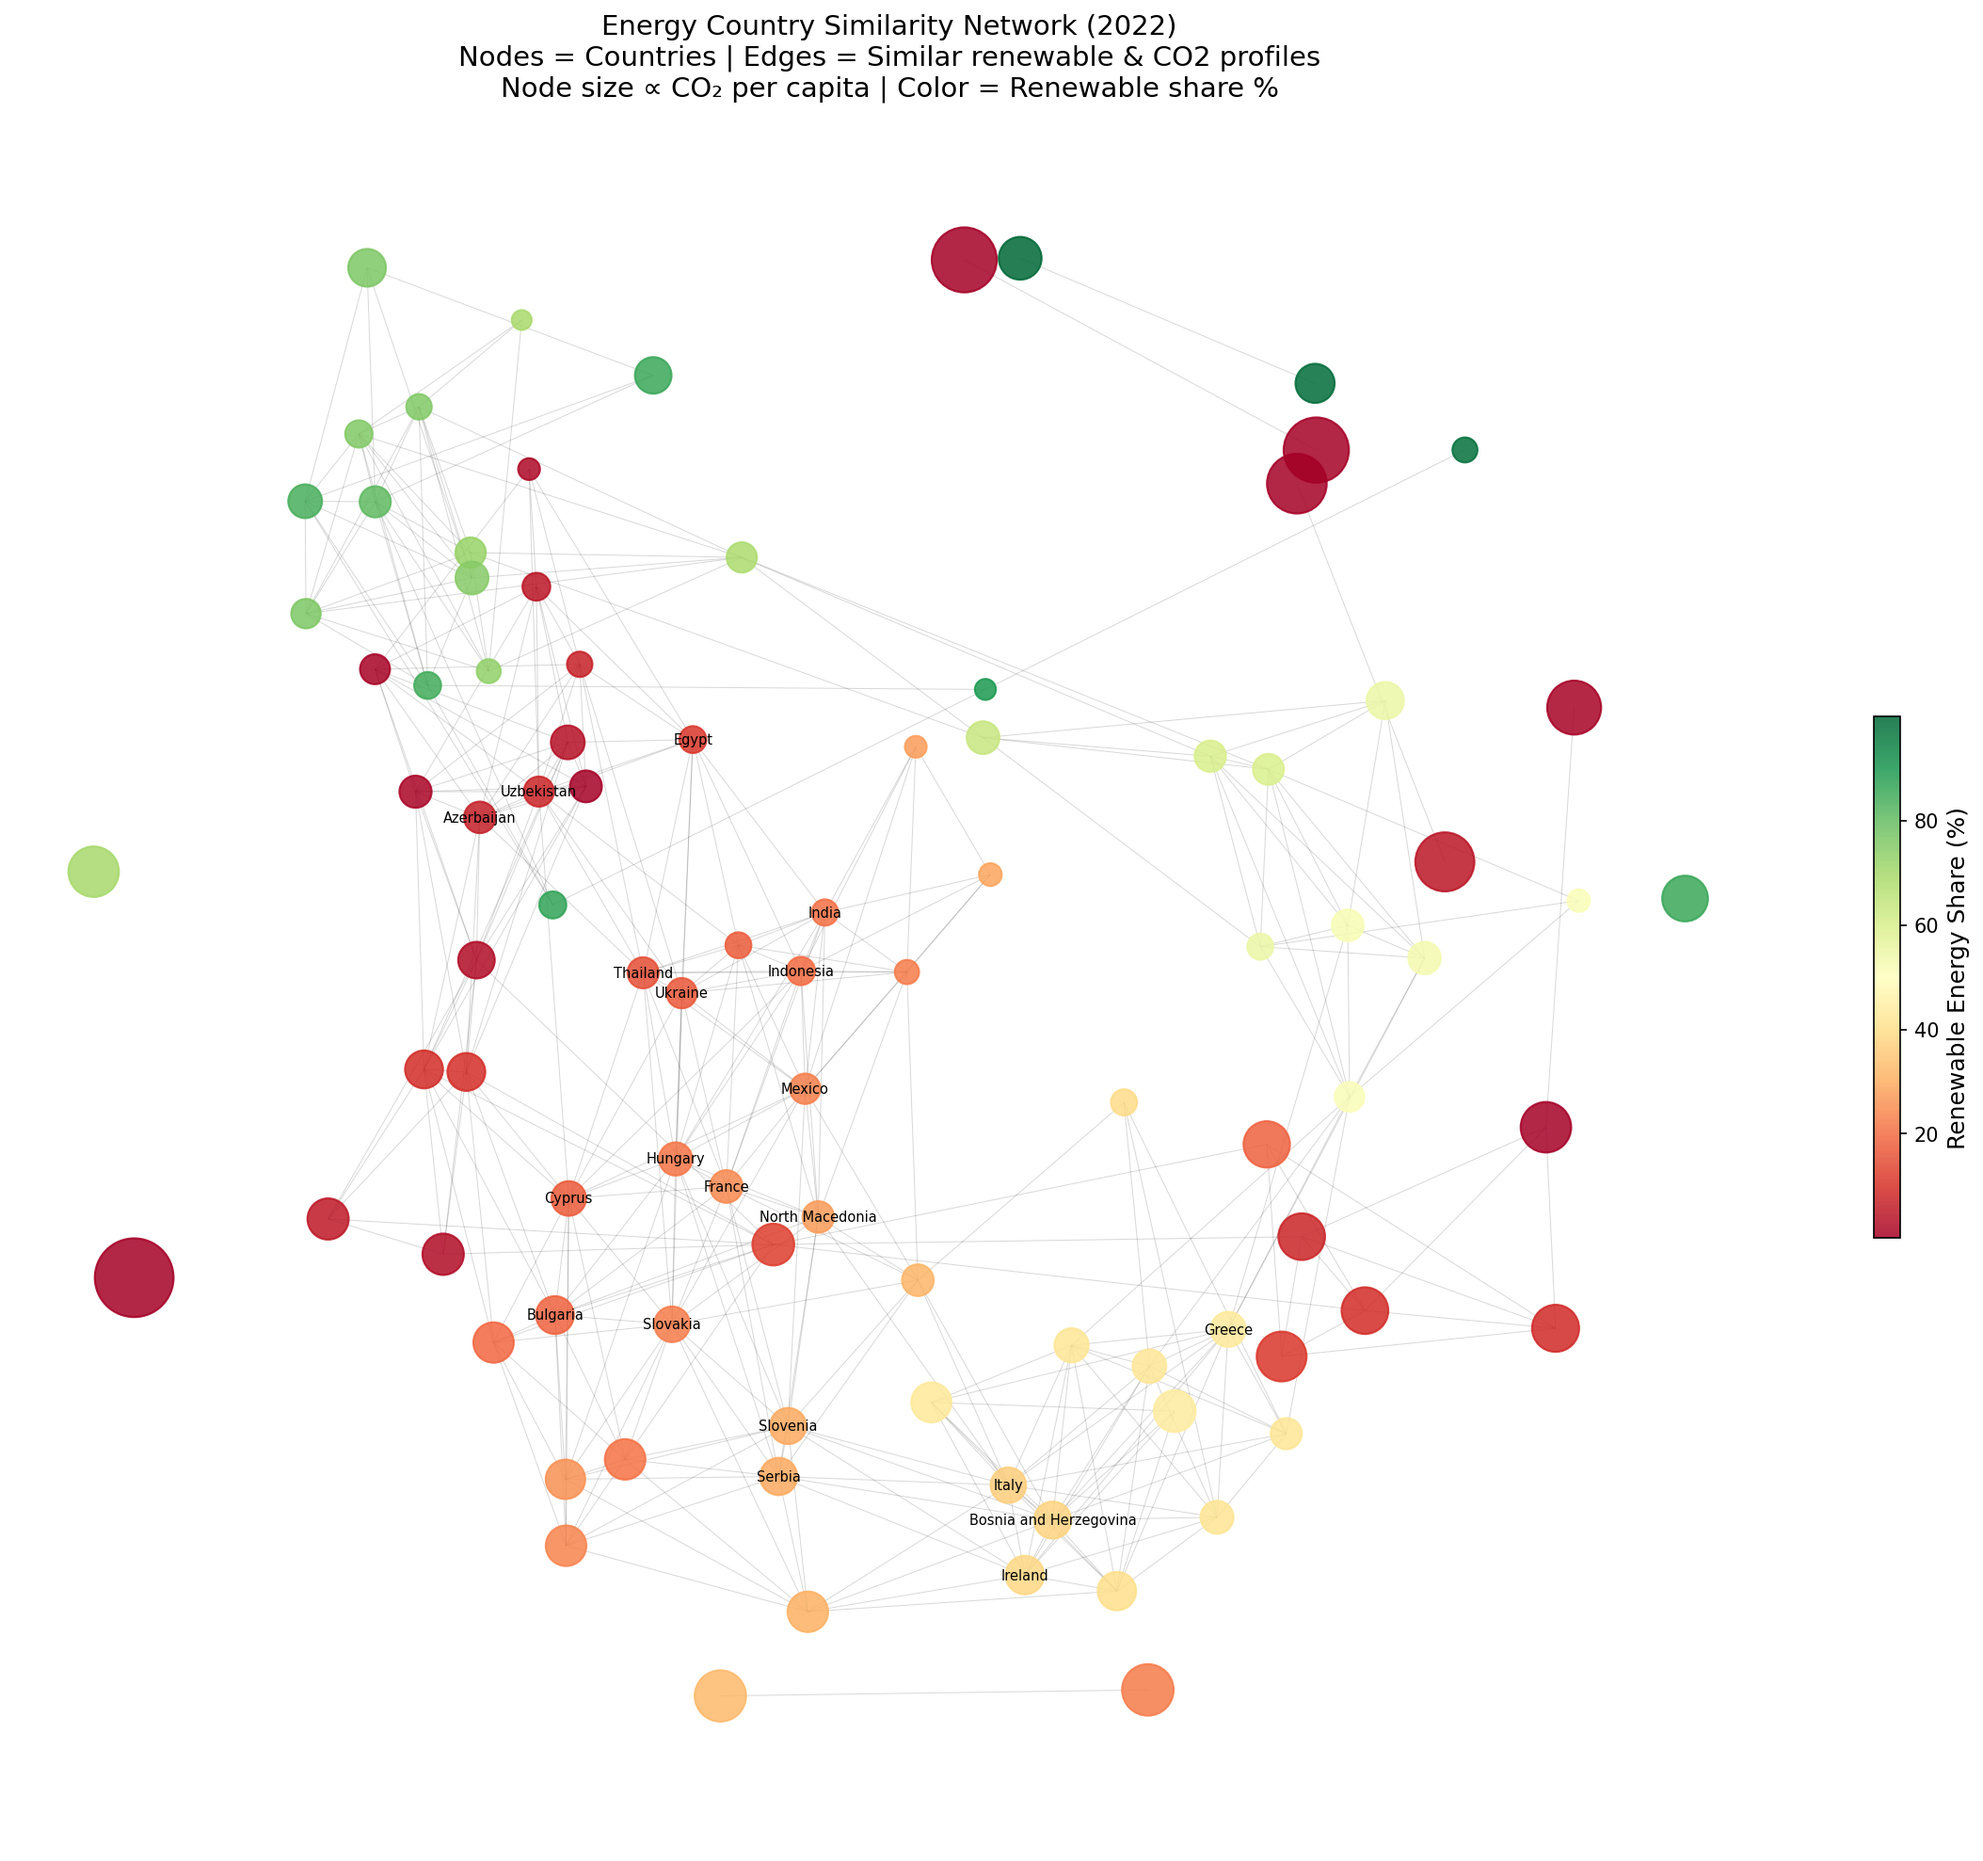
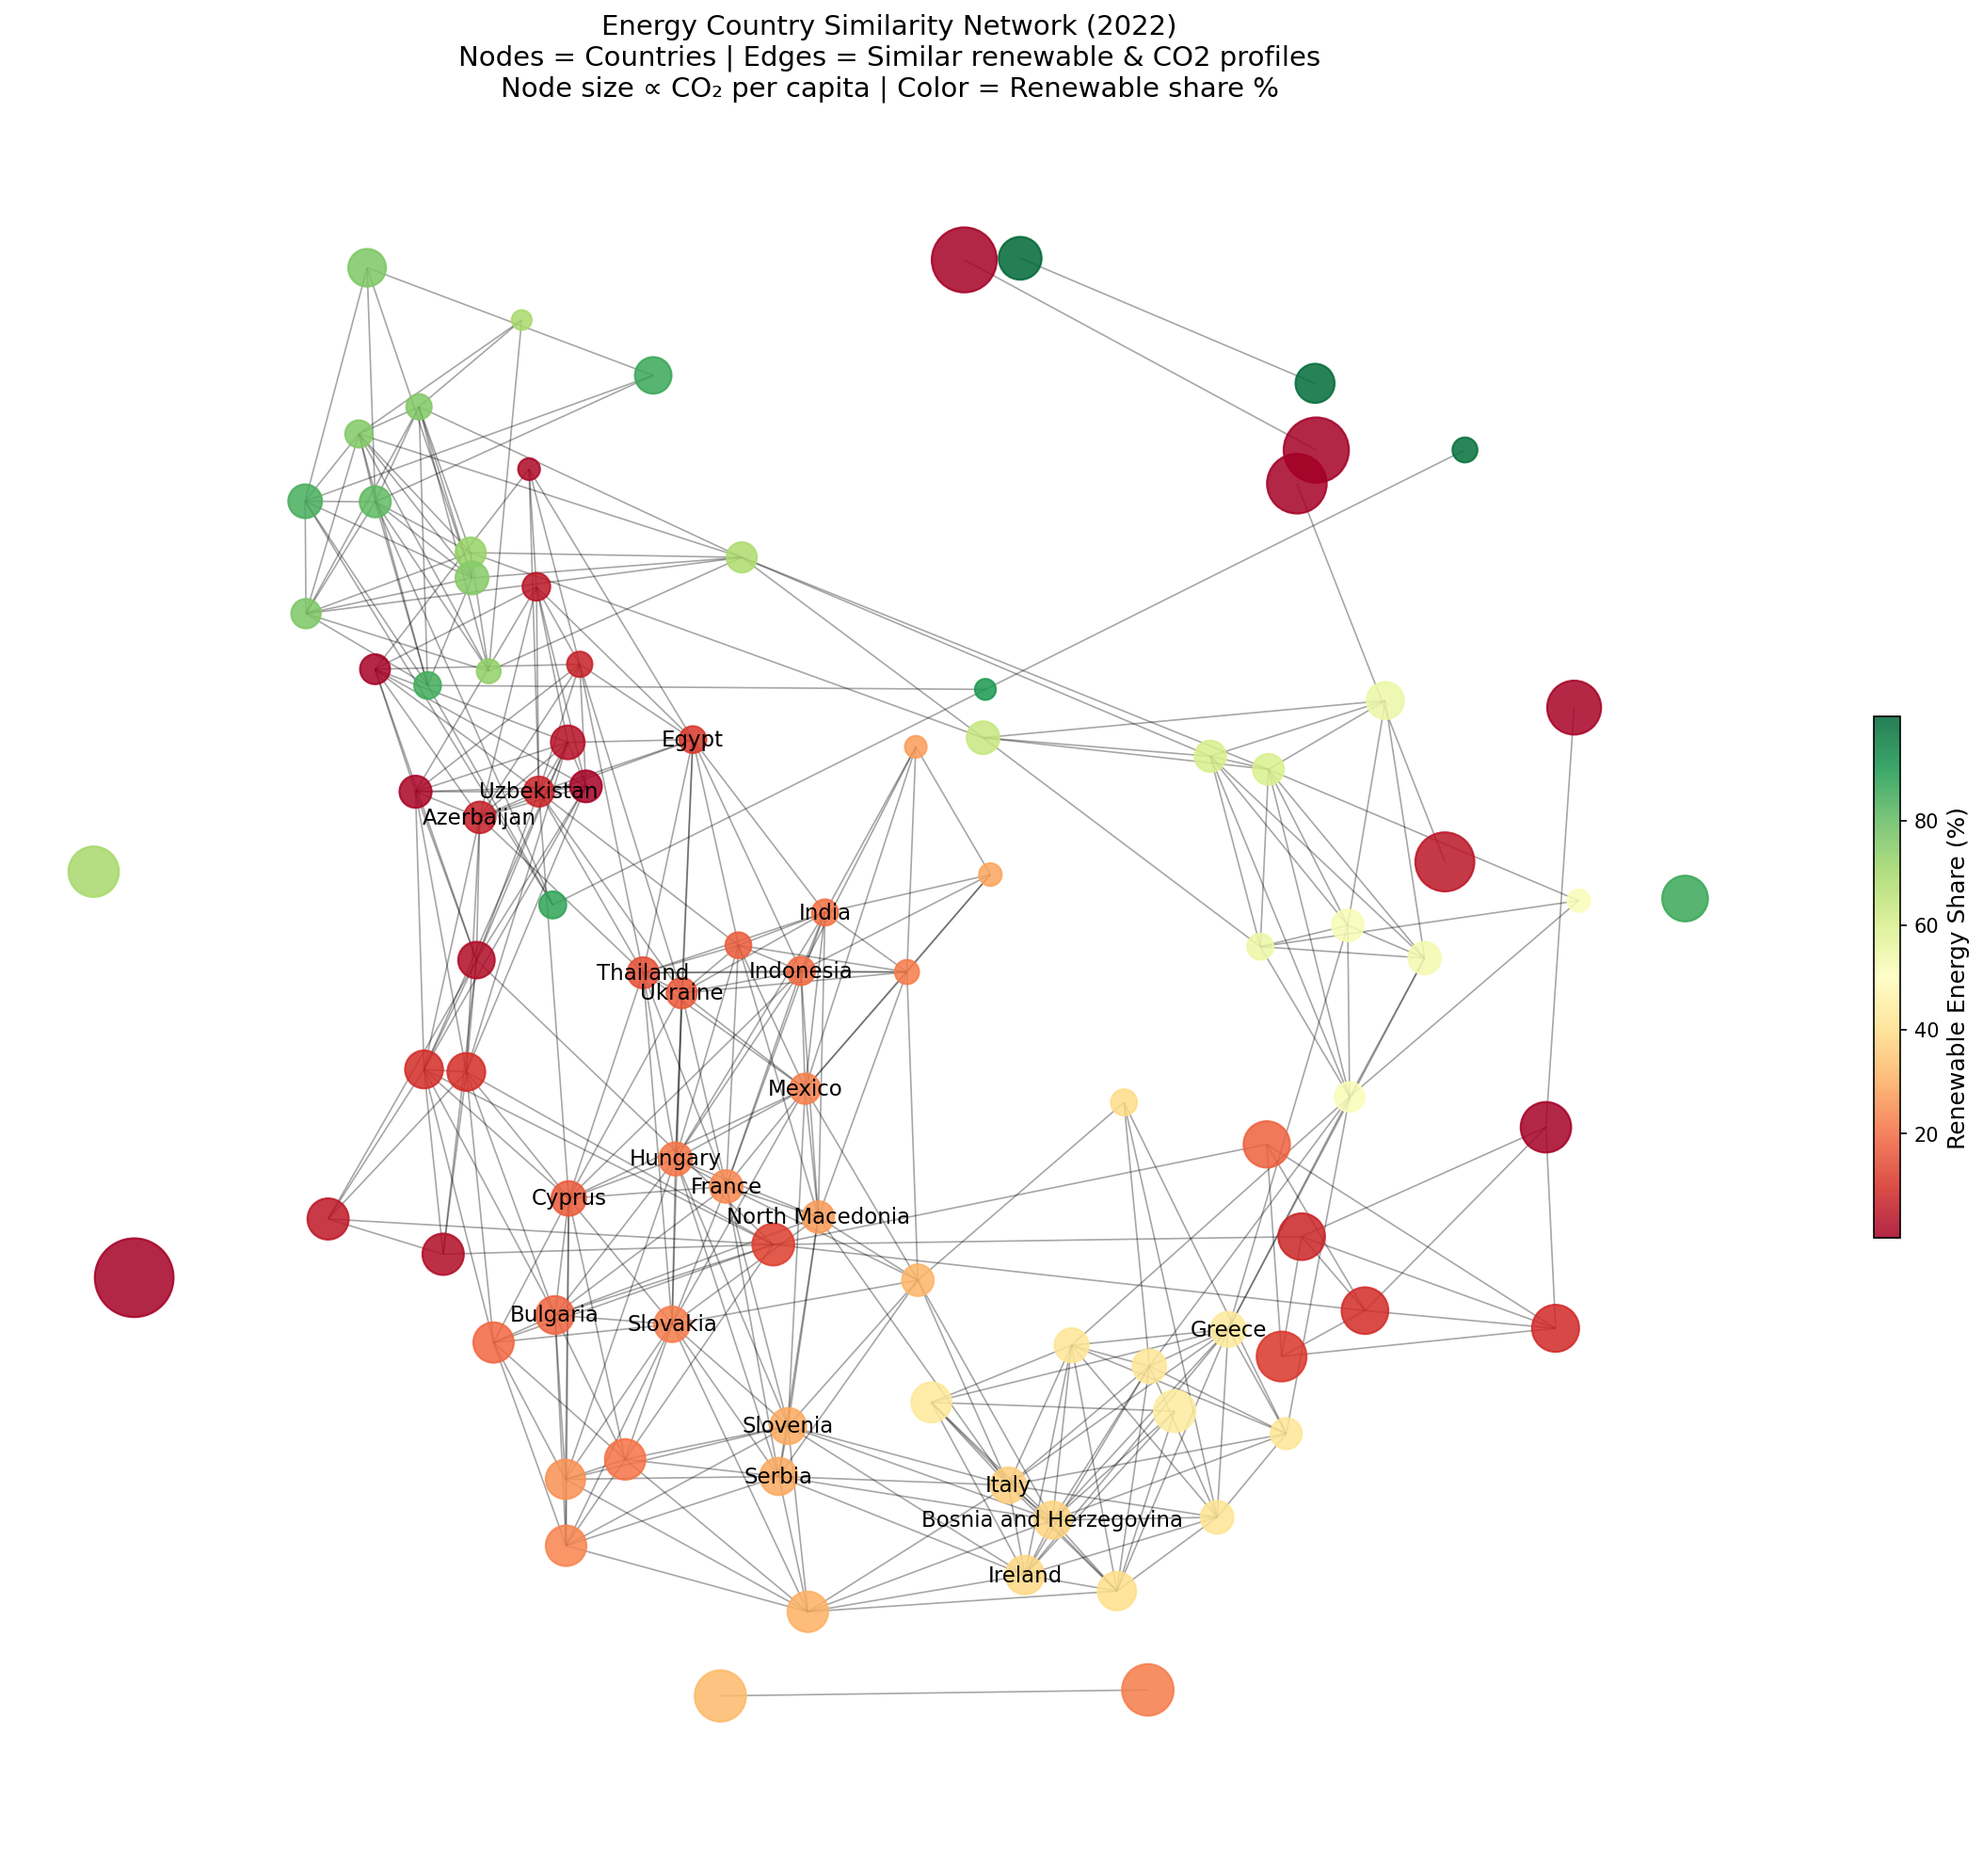
Improve network graph visibility and labels

diff --git a/phase3/networkx/network_analysis.py b/phase3/networkx/network_analysis.py
@@ -103,7 +103,6 @@ renewable_values = [G.nodes[n]["renewable_share"] for n in G.nodes()]
 pos = nx.spring_layout(G, k=0.5, iterations=50, seed=42)
 
 fig, ax = plt.subplots(figsize=(20, 16))
-
 cmap = plt.cm.RdYlGn
 nodes_plot = nx.draw_networkx_nodes(
     G,
@@ -114,11 +113,15 @@ nodes_plot = nx.draw_networkx_nodes(
     alpha=0.85,
     ax=ax,
 )
-nx.draw_networkx_edges(G, pos, alpha=0.15, width=0.5, ax=ax)
+
+# Updated: Increased edge alpha and width for better visibility
+nx.draw_networkx_edges(G, pos, alpha=0.35, width=0.8, ax=ax)
 
 top_nodes = sorted(deg_cent, key=deg_cent.get, reverse=True)[:20]
 label_subset = {n: n for n in top_nodes}
-nx.draw_networkx_labels(G, pos, labels=label_subset, font_size=7, ax=ax)
+
+# Updated: Increased font_size for better readability
+nx.draw_networkx_labels(G, pos, labels=label_subset, font_size=11, ax=ax)
 
 cbar = plt.colorbar(nodes_plot, ax=ax, shrink=0.3)
 cbar.set_label("Renewable Energy Share (%)", fontsize=12)
